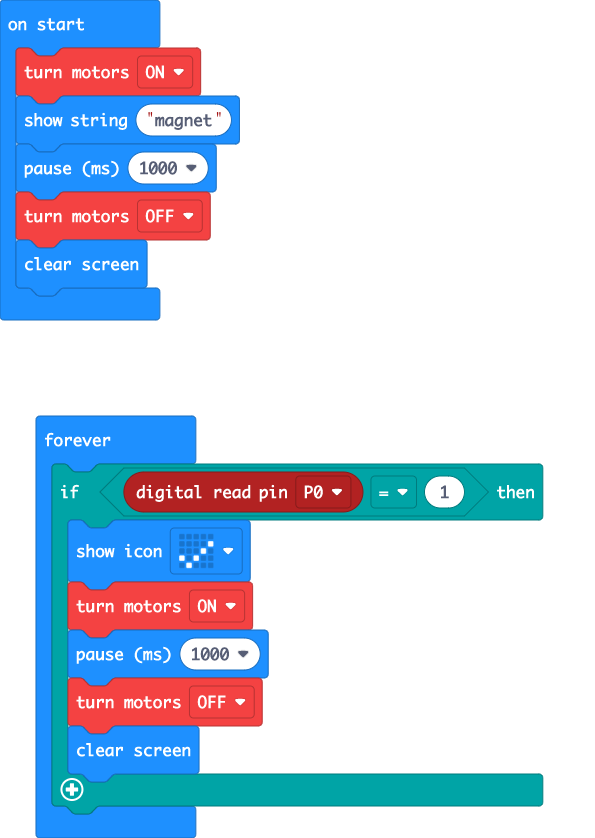
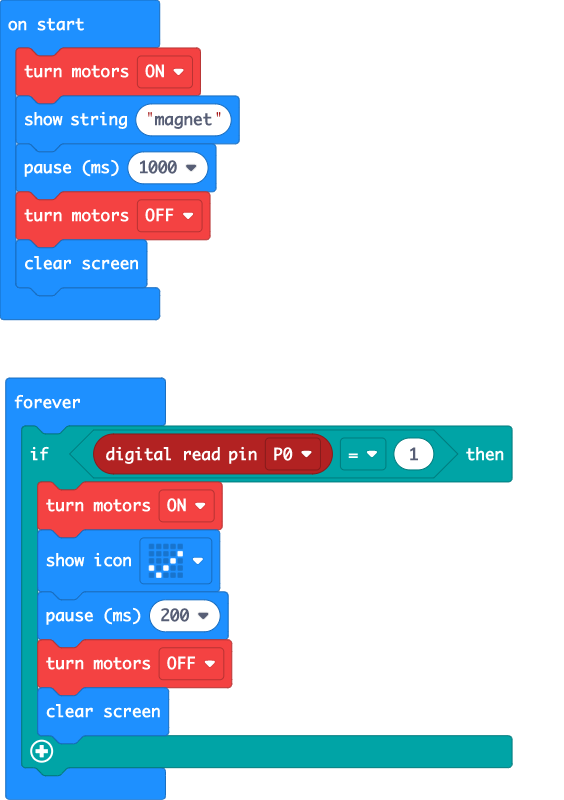
Update main.blocks, main.ts

Changed region(s): [[0.0, 0.4688, 0.9344, 1.0], [0.0, 0.0, 0.4521, 0.4062]]

diff --git a/main.ts b/main.ts
@@ -5,9 +5,9 @@ motobit.enable(MotorPower.Off)
 basic.clearScreen()
 basic.forever(function () {
     if (pins.digitalReadPin(DigitalPin.P0) == 1) {
-        basic.showIcon(IconNames.Yes)
         motobit.enable(MotorPower.On)
-        basic.pause(1000)
+        basic.showIcon(IconNames.Yes)
+        basic.pause(200)
         motobit.enable(MotorPower.Off)
         basic.clearScreen()
     }
